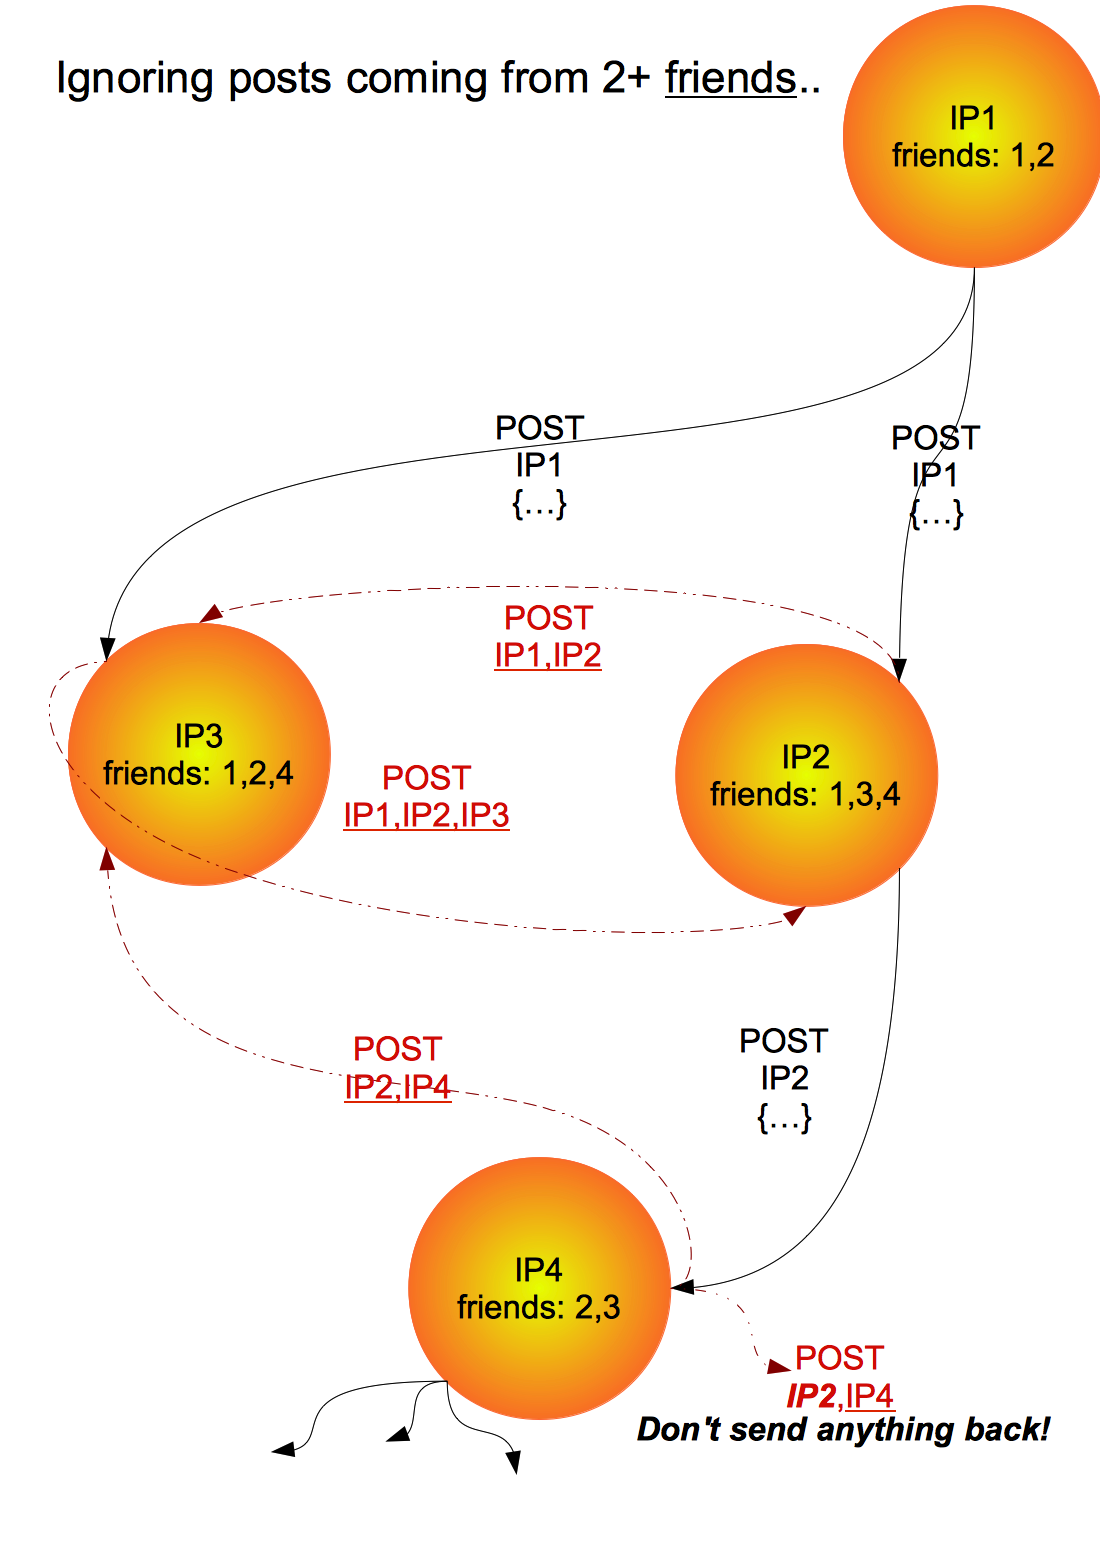
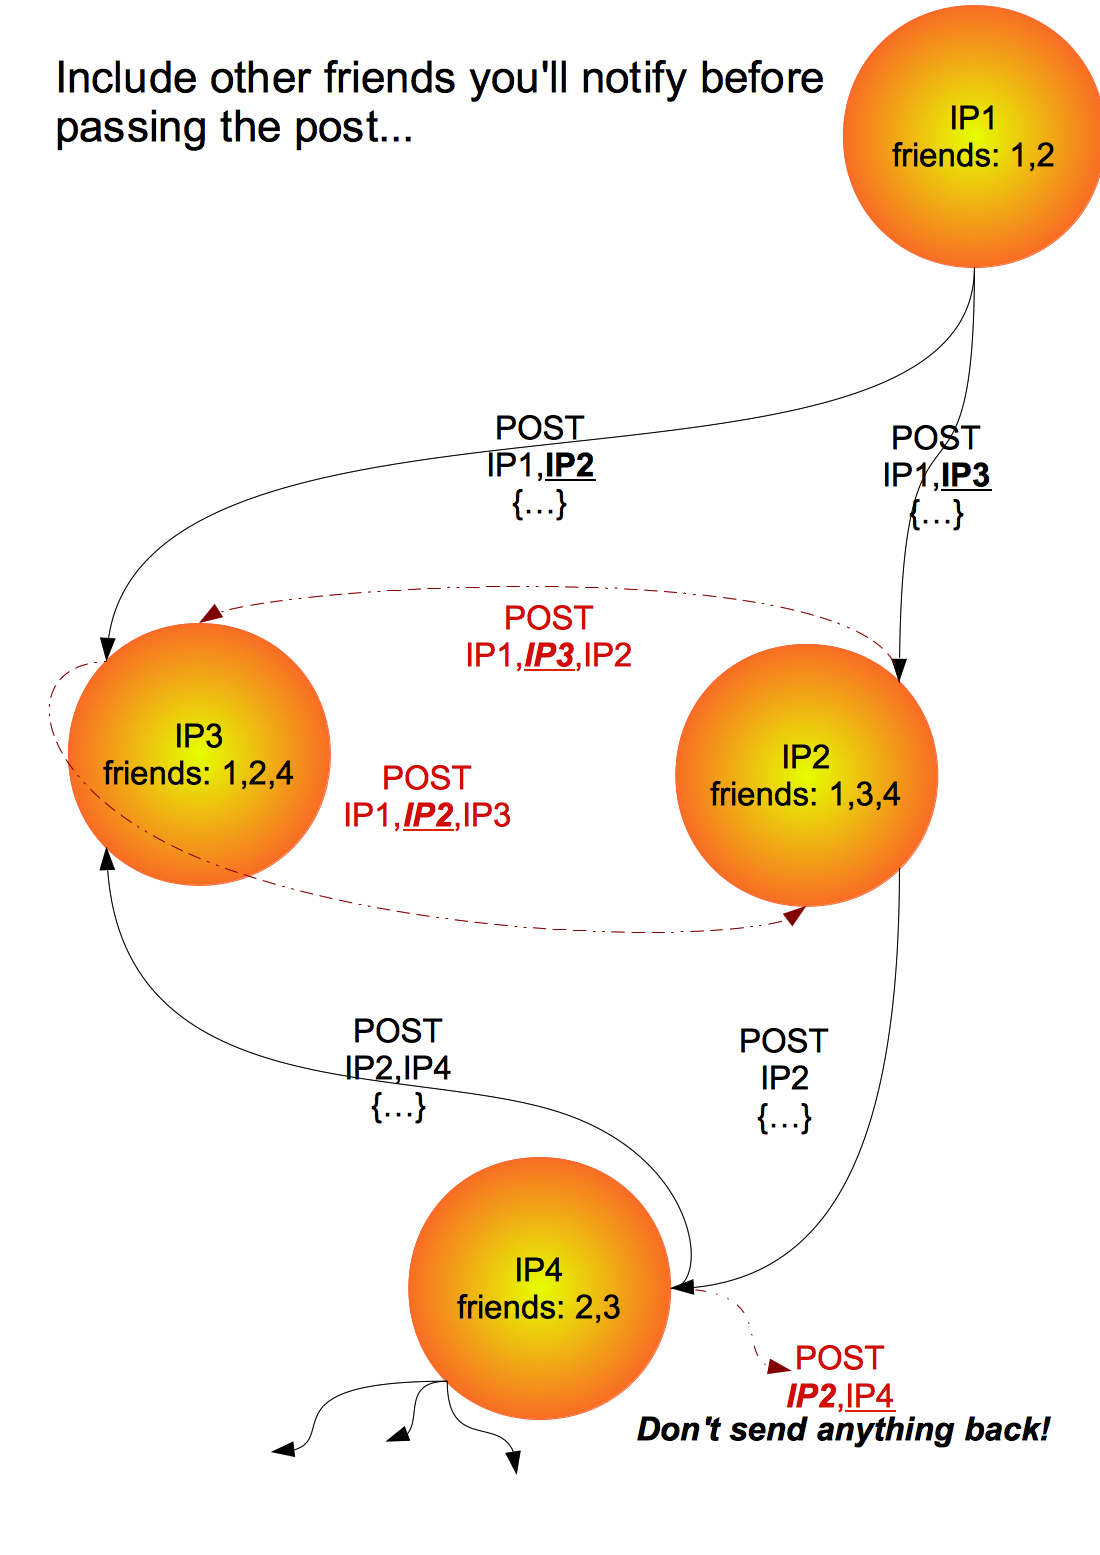
Avoiding duplicates
Simply, include your other friends/followers in the POST header .:. no1
else notify them!

diff --git a/src/yoga1290/schoolmate/Server.java b/src/yoga1290/schoolmate/Server.java
@@ -524,18 +524,14 @@ class ServerRequestHandler extends Thread implements Runnable
             		for(i=0;i<senders.length;i++)
             			receivedIPs.add(senders[i]);
             		Iterator<String> it_friends=ServerData.followers.iterator();
-            		boolean includingFollowers=false;
+            		String cur;
+            		//include the people you'll notify, so no one will notify them later!
             		while(it_friends.hasNext())
-            			if(receivedIPs.contains(it_friends.next()))
-            			{
-            				if(includingFollowers) //not the 1st follower passing it
-            				{
-            					s.close();
-                    			return;
-            				}
-            				includingFollowers=true;
-            			}
-            		
+            		{
+            			cur=it_friends.next();
+            			if(!receivedIPs.contains(cur))
+            				sendersln+=","+cur;
+            		}
             		
 	            		while((tmp=in.readLine())!=null)
 	            			txt+=tmp;
@@ -561,17 +557,14 @@ class ServerRequestHandler extends Thread implements Runnable
             		for(i=0;i<senders.length;i++)
             			receivedIPs.add(senders[i]);
             		Iterator<String> it_friends=ServerData.followers.iterator();
-            		boolean includingFollowers=false;
+            		String cur;
+            		//include the people you'll notify, so no one will notify them later!
             		while(it_friends.hasNext())
-            			if(receivedIPs.contains(it_friends.next()))
-            			{
-            				if(includingFollowers) //not the 1st follower passing it
-            				{
-            					s.close();
-                    			return;
-            				}
-            				includingFollowers=true;
-            			}
+            		{
+            			cur=it_friends.next();
+            			if(!receivedIPs.contains(cur))
+            				sendersln+=","+cur;
+            		}
             		
             		
             		System.out.println("My Address: "+s.getLocalAddress());

diff --git a/readme.md b/readme.md
@@ -18,9 +18,8 @@ Actually, there are still some problems here… 1st time I used to loop for an a
 
 ## Avoiding duplicates:
 
-+	don't send anything back
-+	ignore posts coming from 2 or more friends/followers
-+	SOMETHING IS STILL MISSING
++	include your other friends/followers in the POST header .:. no1 else notify them!
++	Sure,don't send anything back to someone mentioned the POST header!
 ![avoiding duplicates](readme/duplication.png)
 
 
